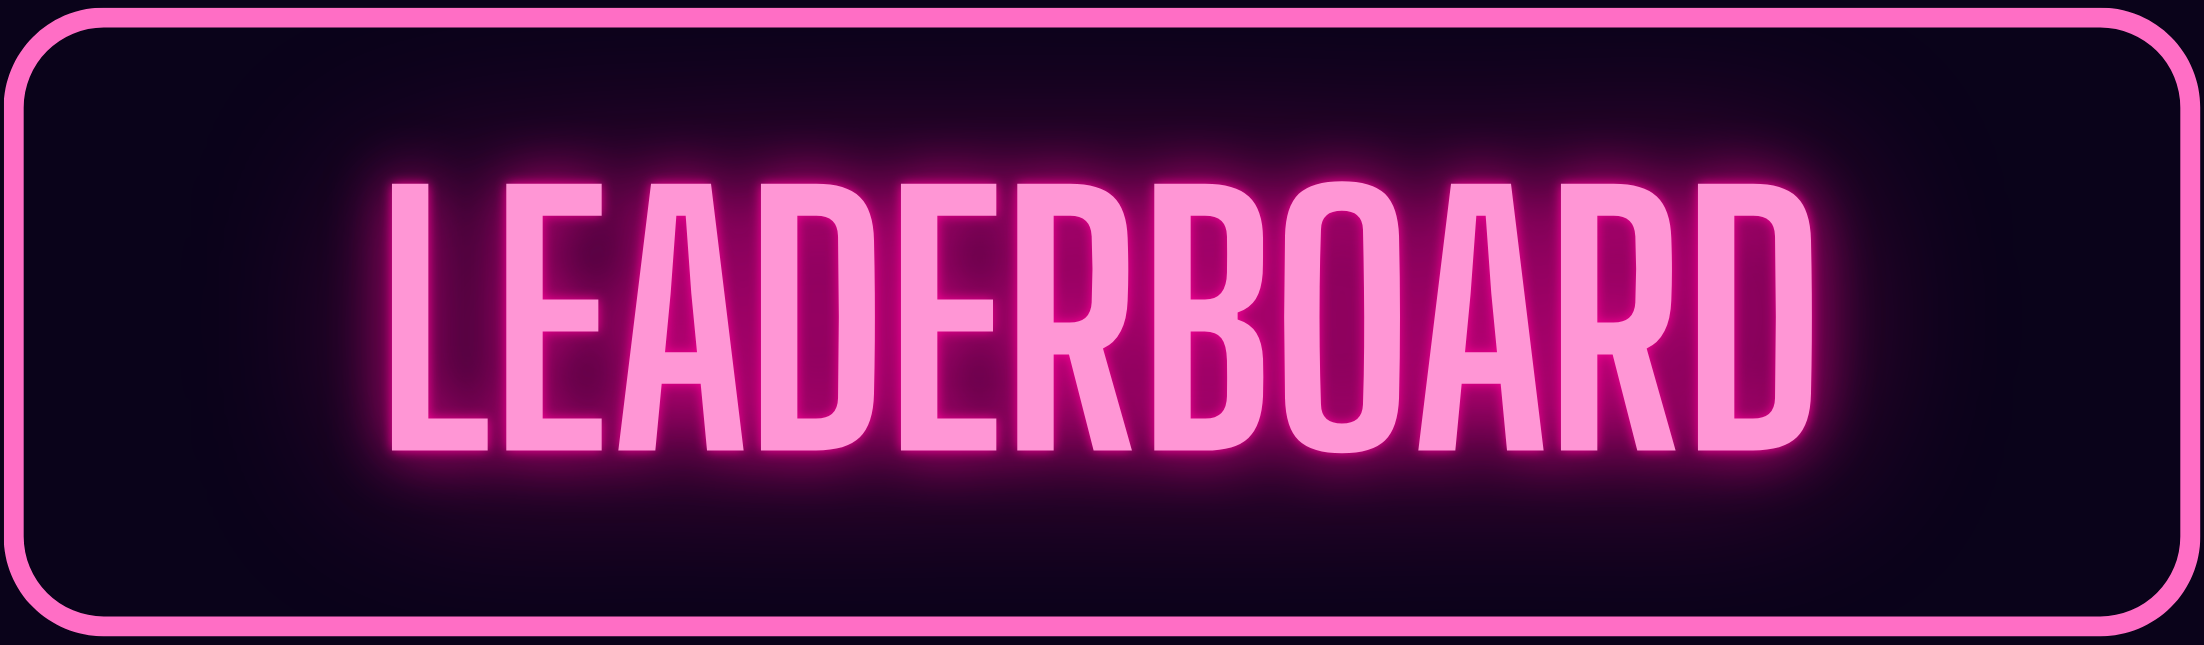
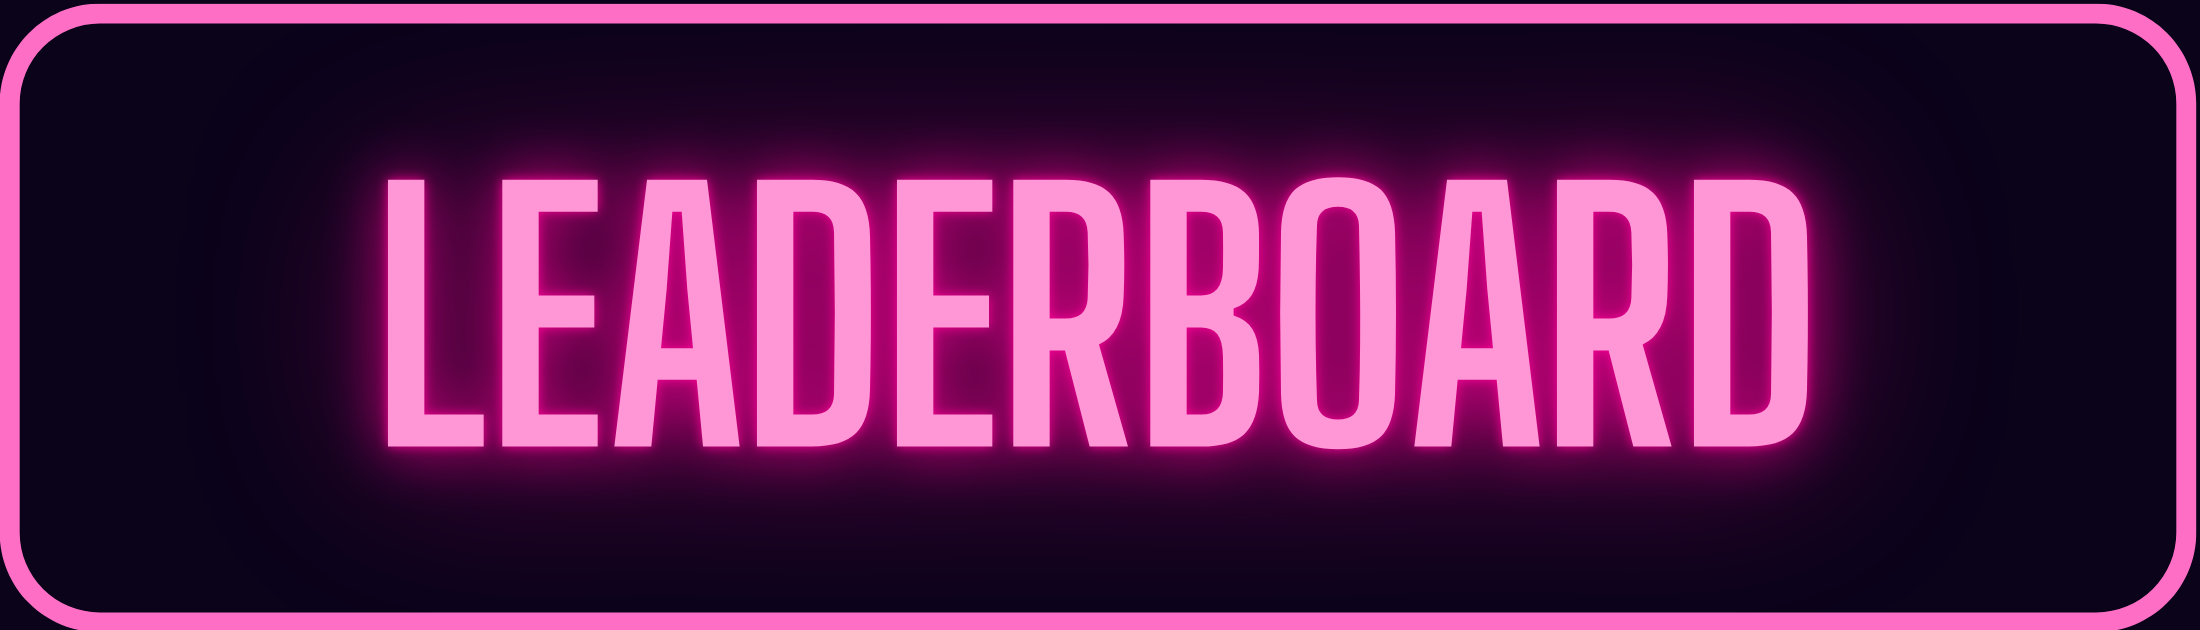
Adjust visual placement of menubtn

diff --git a/docs/css/styles.css b/docs/css/styles.css
@@ -148,6 +148,7 @@ body {
 
 .menubtn {
     background-image: url('../img/menu-button.png');
+    /* image cropped --- 2200 x 630 */
     background-repeat: no-repeat;
     background-color: transparent;
     background-size: contain;
@@ -155,6 +156,8 @@ body {
     border: none;
     width: 340px;
     height: 100px;
+    margin-left: 800px;
+    margin-top: 550px;
     z-index: 5;
 }
 
@@ -168,7 +171,5 @@ body {
     border: none;
     width: 340px;
     height: 100px;
-    margin-left: 515px;
-    margin-top: 450px;
     z-index: 6;
 }
